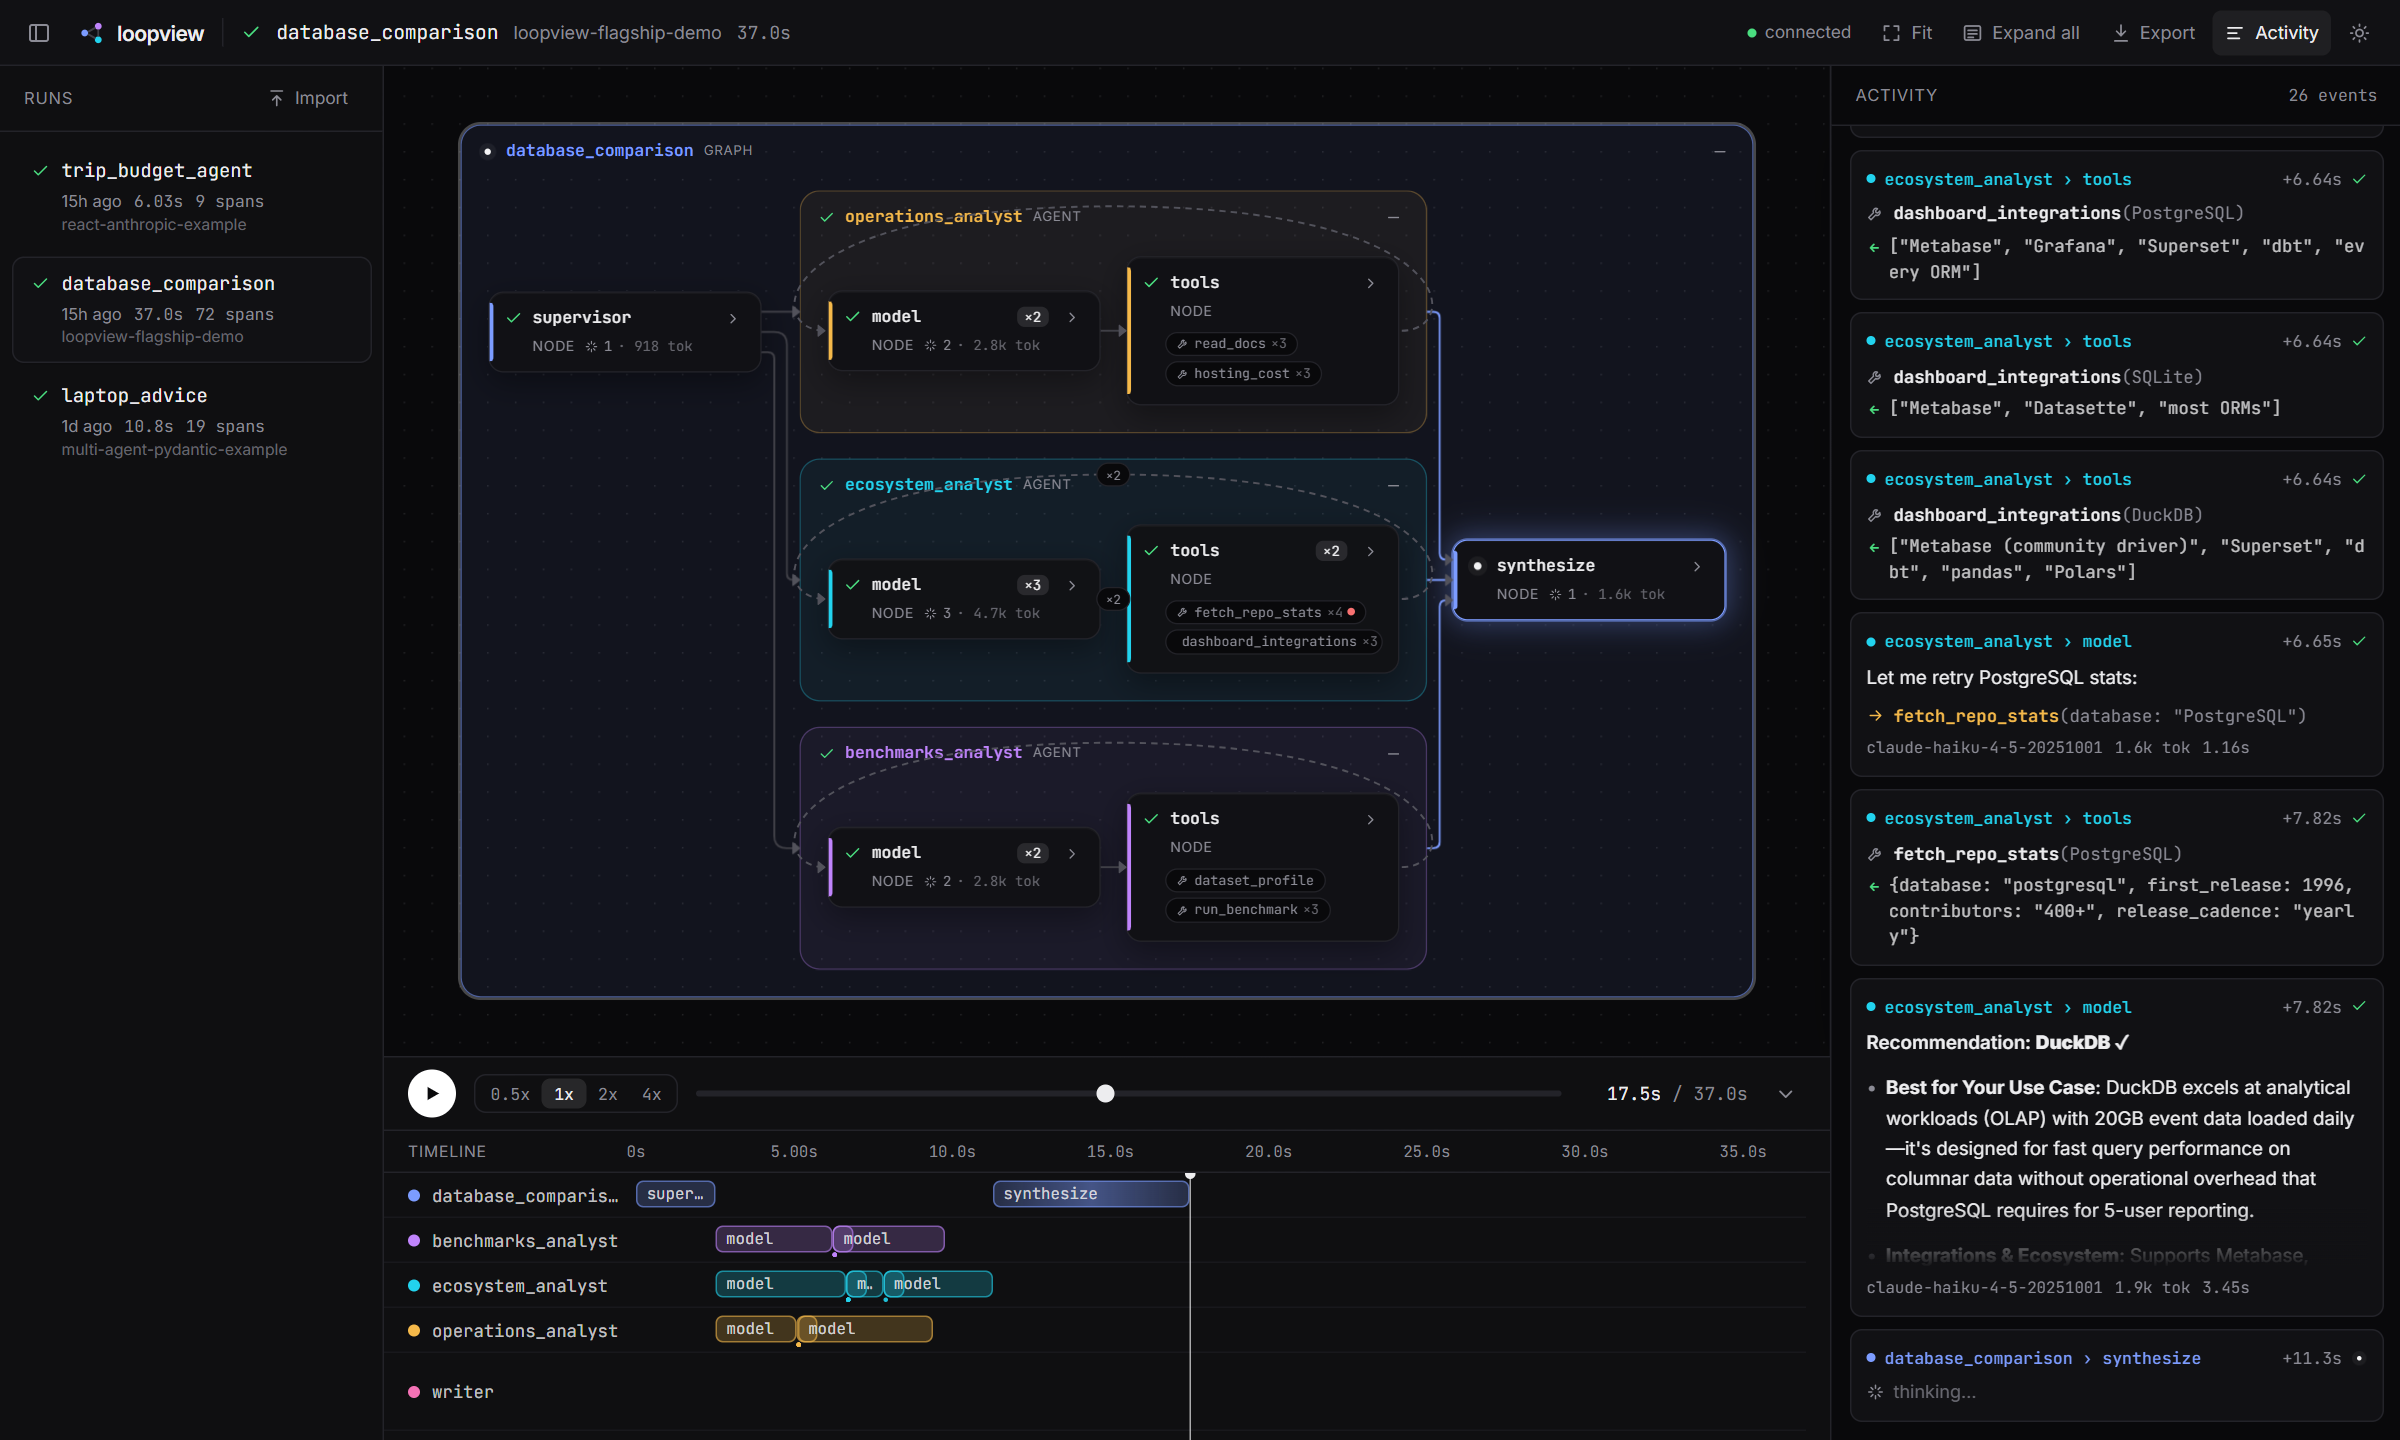
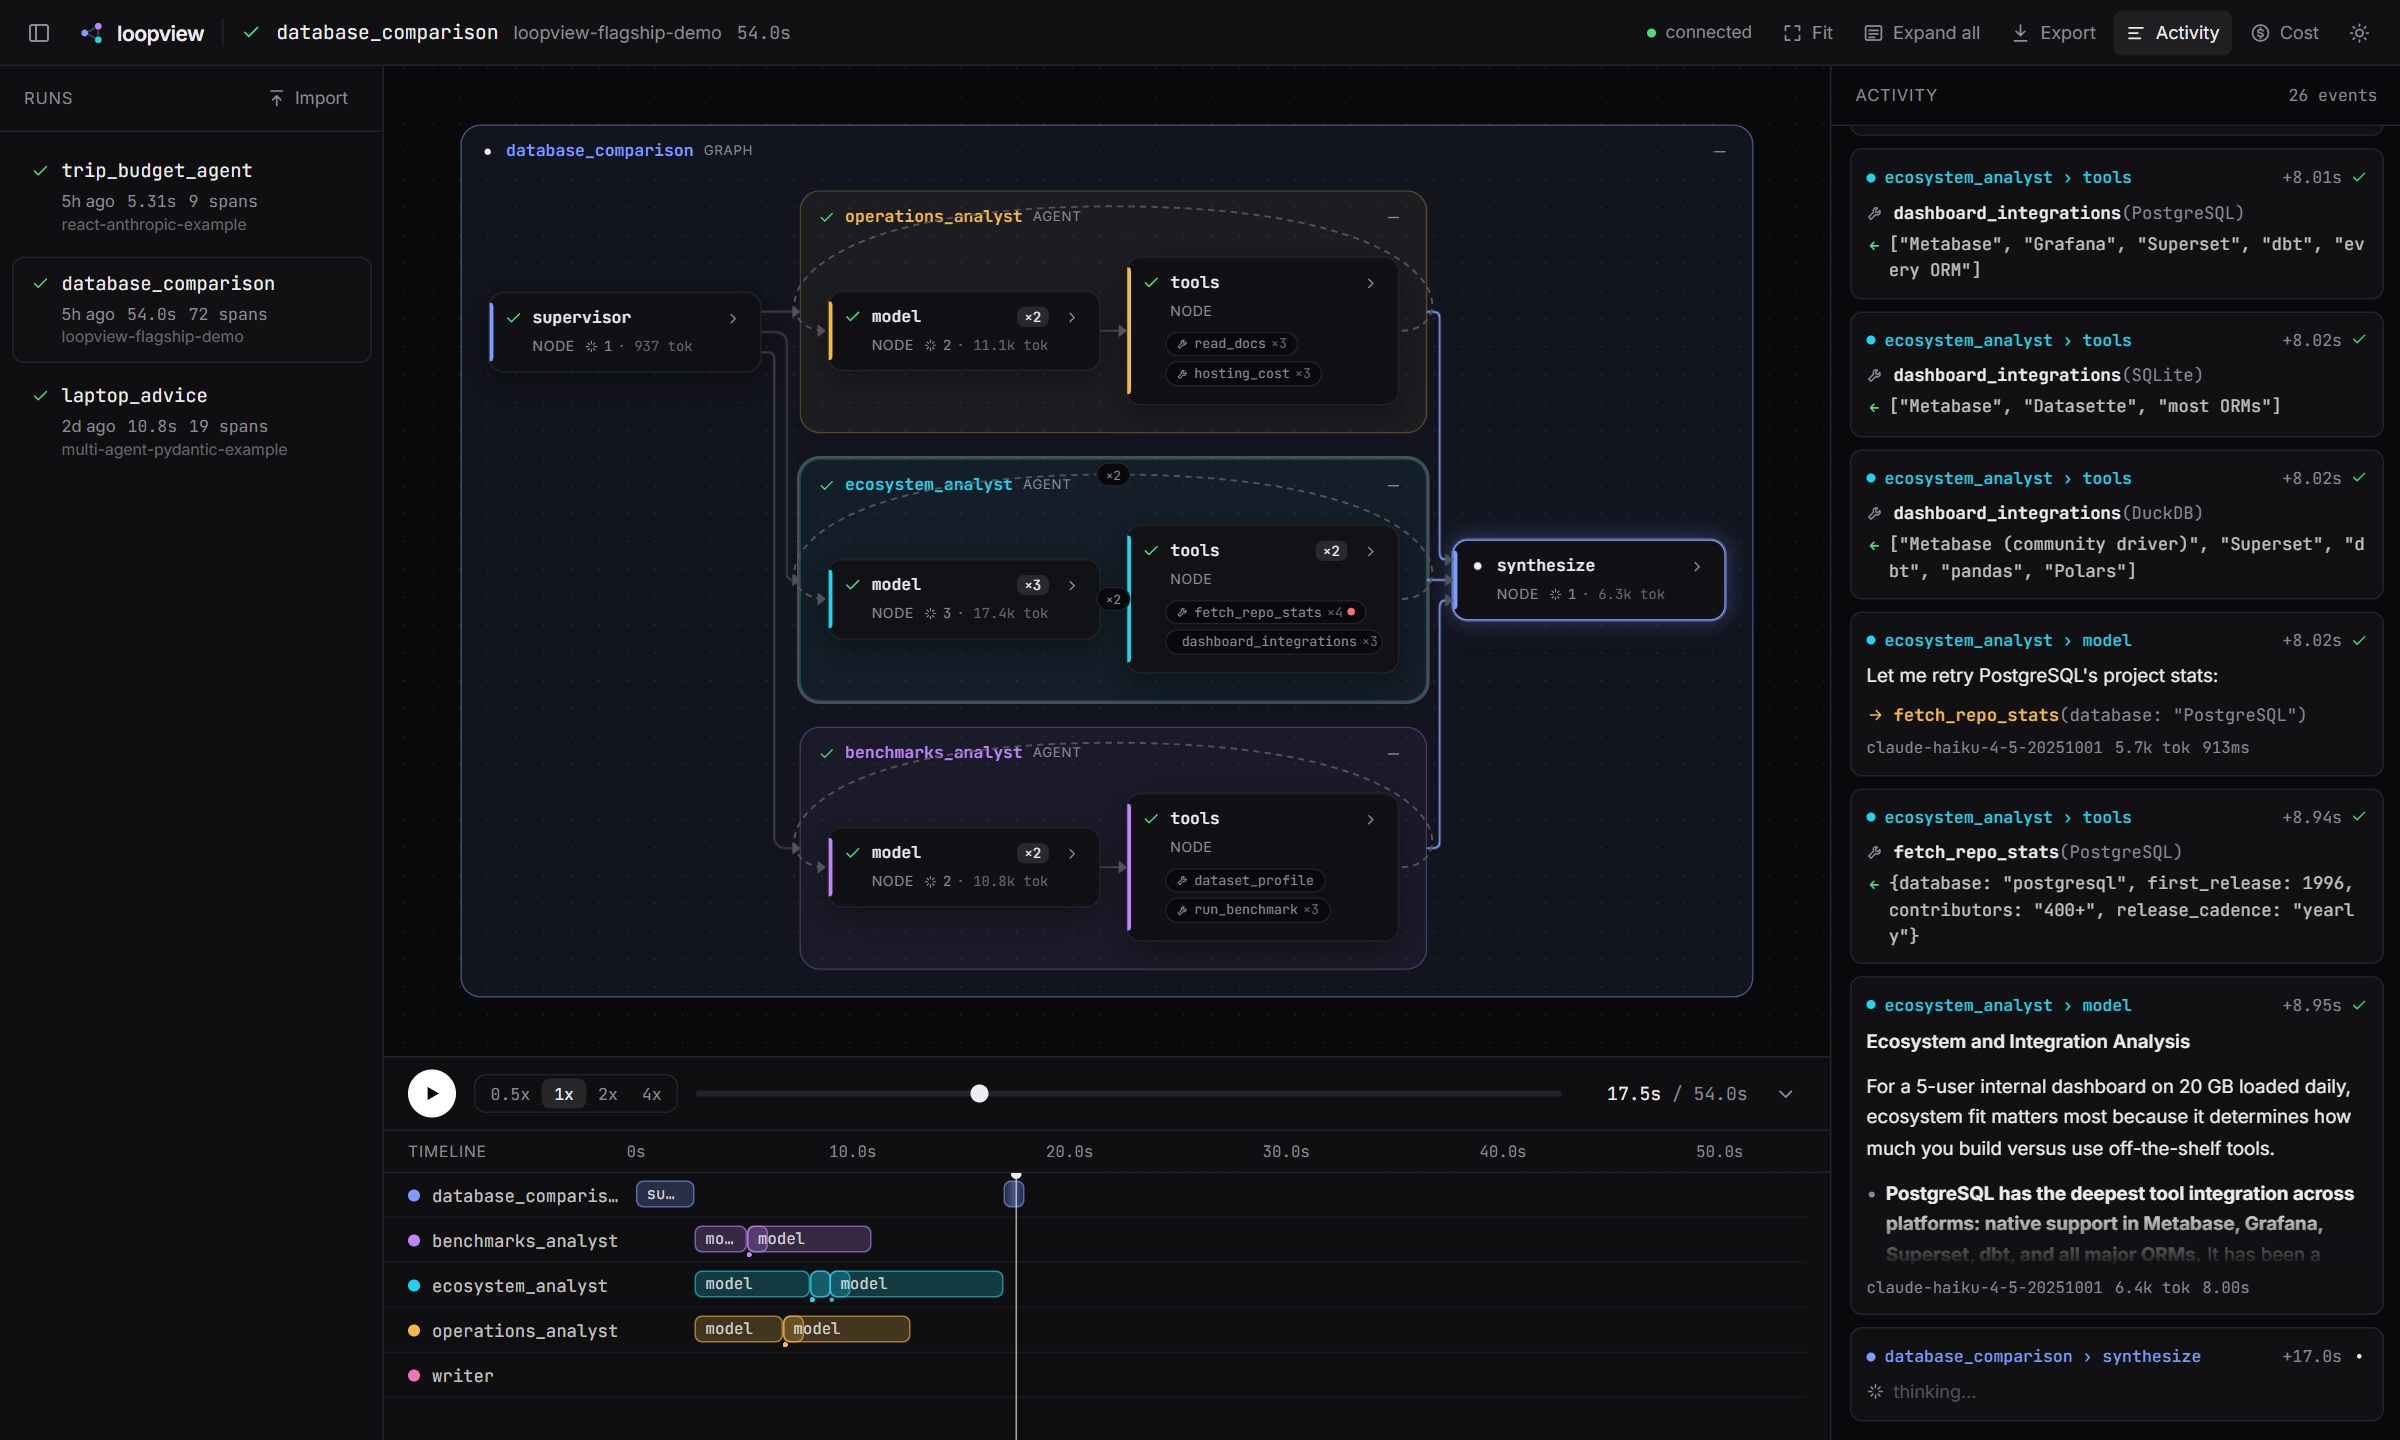
Document the Cost tab

diff --git a/DECISIONS.md b/DECISIONS.md
@@ -154,3 +154,31 @@ One short entry per significant decision: what was chosen, what was rejected, an
 - **Chosen:** `vite build --mode pages` produces a static site that reads recorded runs from JSON files instead of a server, published to GitHub Pages by a workflow. The runs are normalized from the committed fixtures by the real server code during the CI build, so the demo can't drift from what the server would show. In this mode the API layer reads files, live features (SSE, import, export) are off, and the flagship run autoplays.
 - **Why:** a link people can open in a browser, with nothing to install, is the best first impression for a developer tool. One UI codebase, two builds, so the demo is always the real thing.
 - **Rejected:** hosting a live server (costs money, needs care) and a video only (can't be explored).
+
+## D38. Token usage: read what the conventions say, never invent it
+- **Chosen:** a `usage` object per model call (input, output, cache read, cache write, reasoning), replacing the old input/output pair. Each adapter reads its convention's names: GenAI (`gen_ai.usage.*`, plus Pydantic AI's own `gen_ai.usage.details.cache_*` names), OpenInference (`llm.token_count.*`, falling back to LangChain's raw `usage_metadata` for reasoning and cache tokens, which the instrumentor doesn't copy into attributes). A count that isn't in the trace stays empty. The findings per framework are in [docs/cost-data.md](docs/cost-data.md).
+- **Input includes cache tokens**, as both specs say. Anthropic's own `input_tokens` excludes them, so the hand-instrumented example adds them back.
+- **Fixtures re-captured:** the flagship analysts now share a long, cached handbook as their system prompt, so the recorded runs contain real cache writes and reads to test against.
+
+## D39. The cost split: estimate, then scale to the reported totals
+- **Problem:** providers report how many tokens a call used, not which part of the prompt they came from.
+- **Tokenizer:** characters divided by 4 for prose and 3 for JSON. Measured against the reported counts it lands within about 15% on prose. **Rejected:** a real tokenizer. Anthropic doesn't publish one for Claude, `tiktoken` is OpenAI's and would add a dependency without being right either, and the counting endpoint costs an API call per message.
+- **Segments:** system prompt, tool definitions, history, tool results, new input (after the last assistant message), cache reads, cache writes, thinking, reply. Each estimate is scaled so the segments add up exactly to the reported total.
+- **Unattributed rule:** scaling may stretch the estimate by at most 1.25x (`MAX_STRETCH`). If the recorded content explains less than 80% of the reported count, the rest is shown as "unattributed" instead of being spread over the known segments. Hiding a big gap inside "history" would look precise and be wrong.
+- **Tool prompt (provider):** with tools, Anthropic adds a system prompt the trace never contains (496 tokens on Claude Haiku 4.5). Before this segment, unattributed was about 60% of the input on calls with tools; after, about 10%. The size comes from the pricing file, per model, from Anthropic's docs.
+- **Cache:** cached tokens are a prefix of the prompt, so cache reads and writes are carved from the front, in prompt order (tool prompt, tool definitions, system, history...).
+- **Thinking:** taken from the reported reasoning tokens when present; otherwise estimated from the thinking text like the rest.
+- **Without content**, the call's whole cost is unattributed: the total is known, the split isn't.
+
+## D40. Cost colours: a neutral ink ramp
+- **Problem:** ten distinct segment colours that also stay clear of the eight agent hues and the state colours (green, red) proved impossible: validated palettes either collided with an agent hue or failed colour-blind separation.
+- **Chosen:** four shades of grey ink, one per group (instructions, conversation, cache, output), darkest first, plus a hatched pattern for unattributed, which is "unknown", not a category. Each theme has its own steps, checked as an ordered ramp against its own background. Segments inside a group are told apart by a 2px gap, labels when they fit, the hover tooltip and the breakdown table. Agent colours appear only as a dot next to an agent's name, so colour keeps meaning "which agent".
+
+## D41. Where the cost is computed
+- **Chosen:** the server computes each call's split once, when normalizing (`cost/split.py`, pure functions, tested with pytest). The UI only adds up the calls finished by the current moment (`costModel.ts`), so live view, replay, per agent and per step all come from the same numbers.
+- **Why:** the split needs the full message content, which the server already has; summing at a moment in time is the same model as `buildGraph(run, t)`. **Rejected:** computing everything in the browser (the content would be parsed twice and Python's tests couldn't cover it).
+- **Interaction:** clicking a card filters the tab to it (all its model calls, across loop iterations); a row in "most expensive steps" selects and centres its card; hovering a segment outlines the three cards where that segment costs most.
+
+## D42. Prices in an editable JSON file
+- **Chosen:** `cost/pricing.json`, one entry per model family with input, cache write (5 minutes), cache read and output prices per million tokens, the tool prompt size, a source URL and the date checked. A model ID matches the longest family name it starts with, so dated IDs (`claude-haiku-4-5-20251001`) need no entry of their own. `--prices FILE` merges a user's file over it.
+- **Why:** prices change; a JSON file can be checked and edited by anyone without touching code, and the source and date make every number auditable. Unknown models get no price rather than a guess: they show tokens only.

diff --git a/README.md b/README.md
@@ -35,6 +35,7 @@ loopview draws the run as a graph that builds itself while the agent runs:
 - **Tool calls fire next to the step that made them**, and a failed call turns red.
 - **Every step can be opened** to read its thinking, its replies, and each tool call's arguments and result, right in the graph.
 - **Any run can be replayed** at 0.5x to 4x, with the graph and the activity feed on the same clock.
+- **The Cost tab shows where the money goes**: system prompt, tool definitions, history, cache, thinking, reply, per agent and per step.
 
 It works with **any framework that emits OpenTelemetry traces** (LangGraph, Pydantic AI, the OpenAI and Anthropic SDKs, or your own code), and it runs **on your machine**: one command, no account, no database, nothing sent anywhere.
 
@@ -60,6 +61,12 @@ It works with **any framework that emits OpenTelemetry traces** (LangGraph, Pyda
 </table>
 
 Or skip the screenshots: [**open the live demo**](https://yasminezerai.github.io/loopview/) in your browser. It replays recorded runs, nothing to install.
+
+## Where the money goes
+
+<img src="docs/screenshot-cost.png" alt="The Cost tab: the run's total, a bar splitting each dollar by where the tokens came from, cost per agent and the most expensive steps">
+
+The Cost tab (<kbd>c</kbd>) splits every dollar of a run into what was sent and received: system prompt, tool definitions, conversation history, tool results, cache reads and writes, thinking and the reply, for the whole run, per agent or for one step. Totals are the token counts your provider reported, priced from an editable file; the split between them is estimated from the recorded content, and whatever can't be explained is shown as "unattributed" rather than guessed.
 
 ## Quick start
 
@@ -228,11 +235,14 @@ Standard OpenTelemetry exporters send a span only when it **ends**, but a live v
 | <kbd>←</kbd> <kbd>→</kbd> | step through events |
 | <kbd>e</kbd> | open or close every step in the graph |
 | <kbd>a</kbd> | show or hide the activity feed |
+| <kbd>c</kbd> | show or hide the Cost tab |
 | <kbd>t</kbd> | show or hide the timeline |
 | <kbd>f</kbd> | fit the graph to the screen |
-| <kbd>esc</kbd> | close the details panel |
+| <kbd>esc</kbd> | close the details panel, and show the whole run's cost again |
 
-Runs can be exported as JSONL and imported by someone else, so you can share a trace. `loopview --help` lists the server options (`--port`, `--persist FILE`, `--max-runs`).
+Runs can be exported as JSONL and imported by someone else, so you can share a trace. `loopview --help` lists the server options (`--port`, `--persist FILE`, `--max-runs`, `--prices FILE`).
+
+Prices live in [`pricing.json`](server/src/loopview/cost/pricing.json), with a source link and the date each was checked. To add a model or correct a price, pass your own file with `--prices FILE`; its entries override the built-in ones. Models with no price are shown in tokens only.
 
 ## Limitations
 
@@ -242,6 +252,8 @@ Runs can be exported as JSONL and imported by someone else, so you can share a t
 - Without `loopview-sdk`, a running step with no finished children appears only when it ends.
 - Message content and thinking appear only if your instrumentation records them. For LangChain, thinking is read from the raw model output, because OpenInference's message attributes drop it.
 - Runs are kept in memory (200 by default); use `--persist` to keep them across restarts.
+- The cost split is an estimate: tokens are approximated from characters (about 4 per token for prose, 3 for JSON), then scaled to the reported totals. The totals themselves are exact. Prices cover Anthropic models for now, and use the 5 minute cache write rate.
+- Calls without recorded content show their total cost but no split. Calls whose framework reports no token counts are listed but not counted.
 
 ## Development
 
@@ -262,6 +274,8 @@ For UI work with hot reload, keep the server running and run `npm run dev` in `u
 - Recorded fixtures for the OpenAI SDK, the OpenAI Agents SDK and more frameworks.
 - A TypeScript `loopview-sdk` for Node agents.
 - Comparing two runs of the same agent side by side.
+- Cost per tool: how much each tool's definition and results cost across a run.
+- Prices for OpenAI, Google and other providers.
 
 ## License
 
